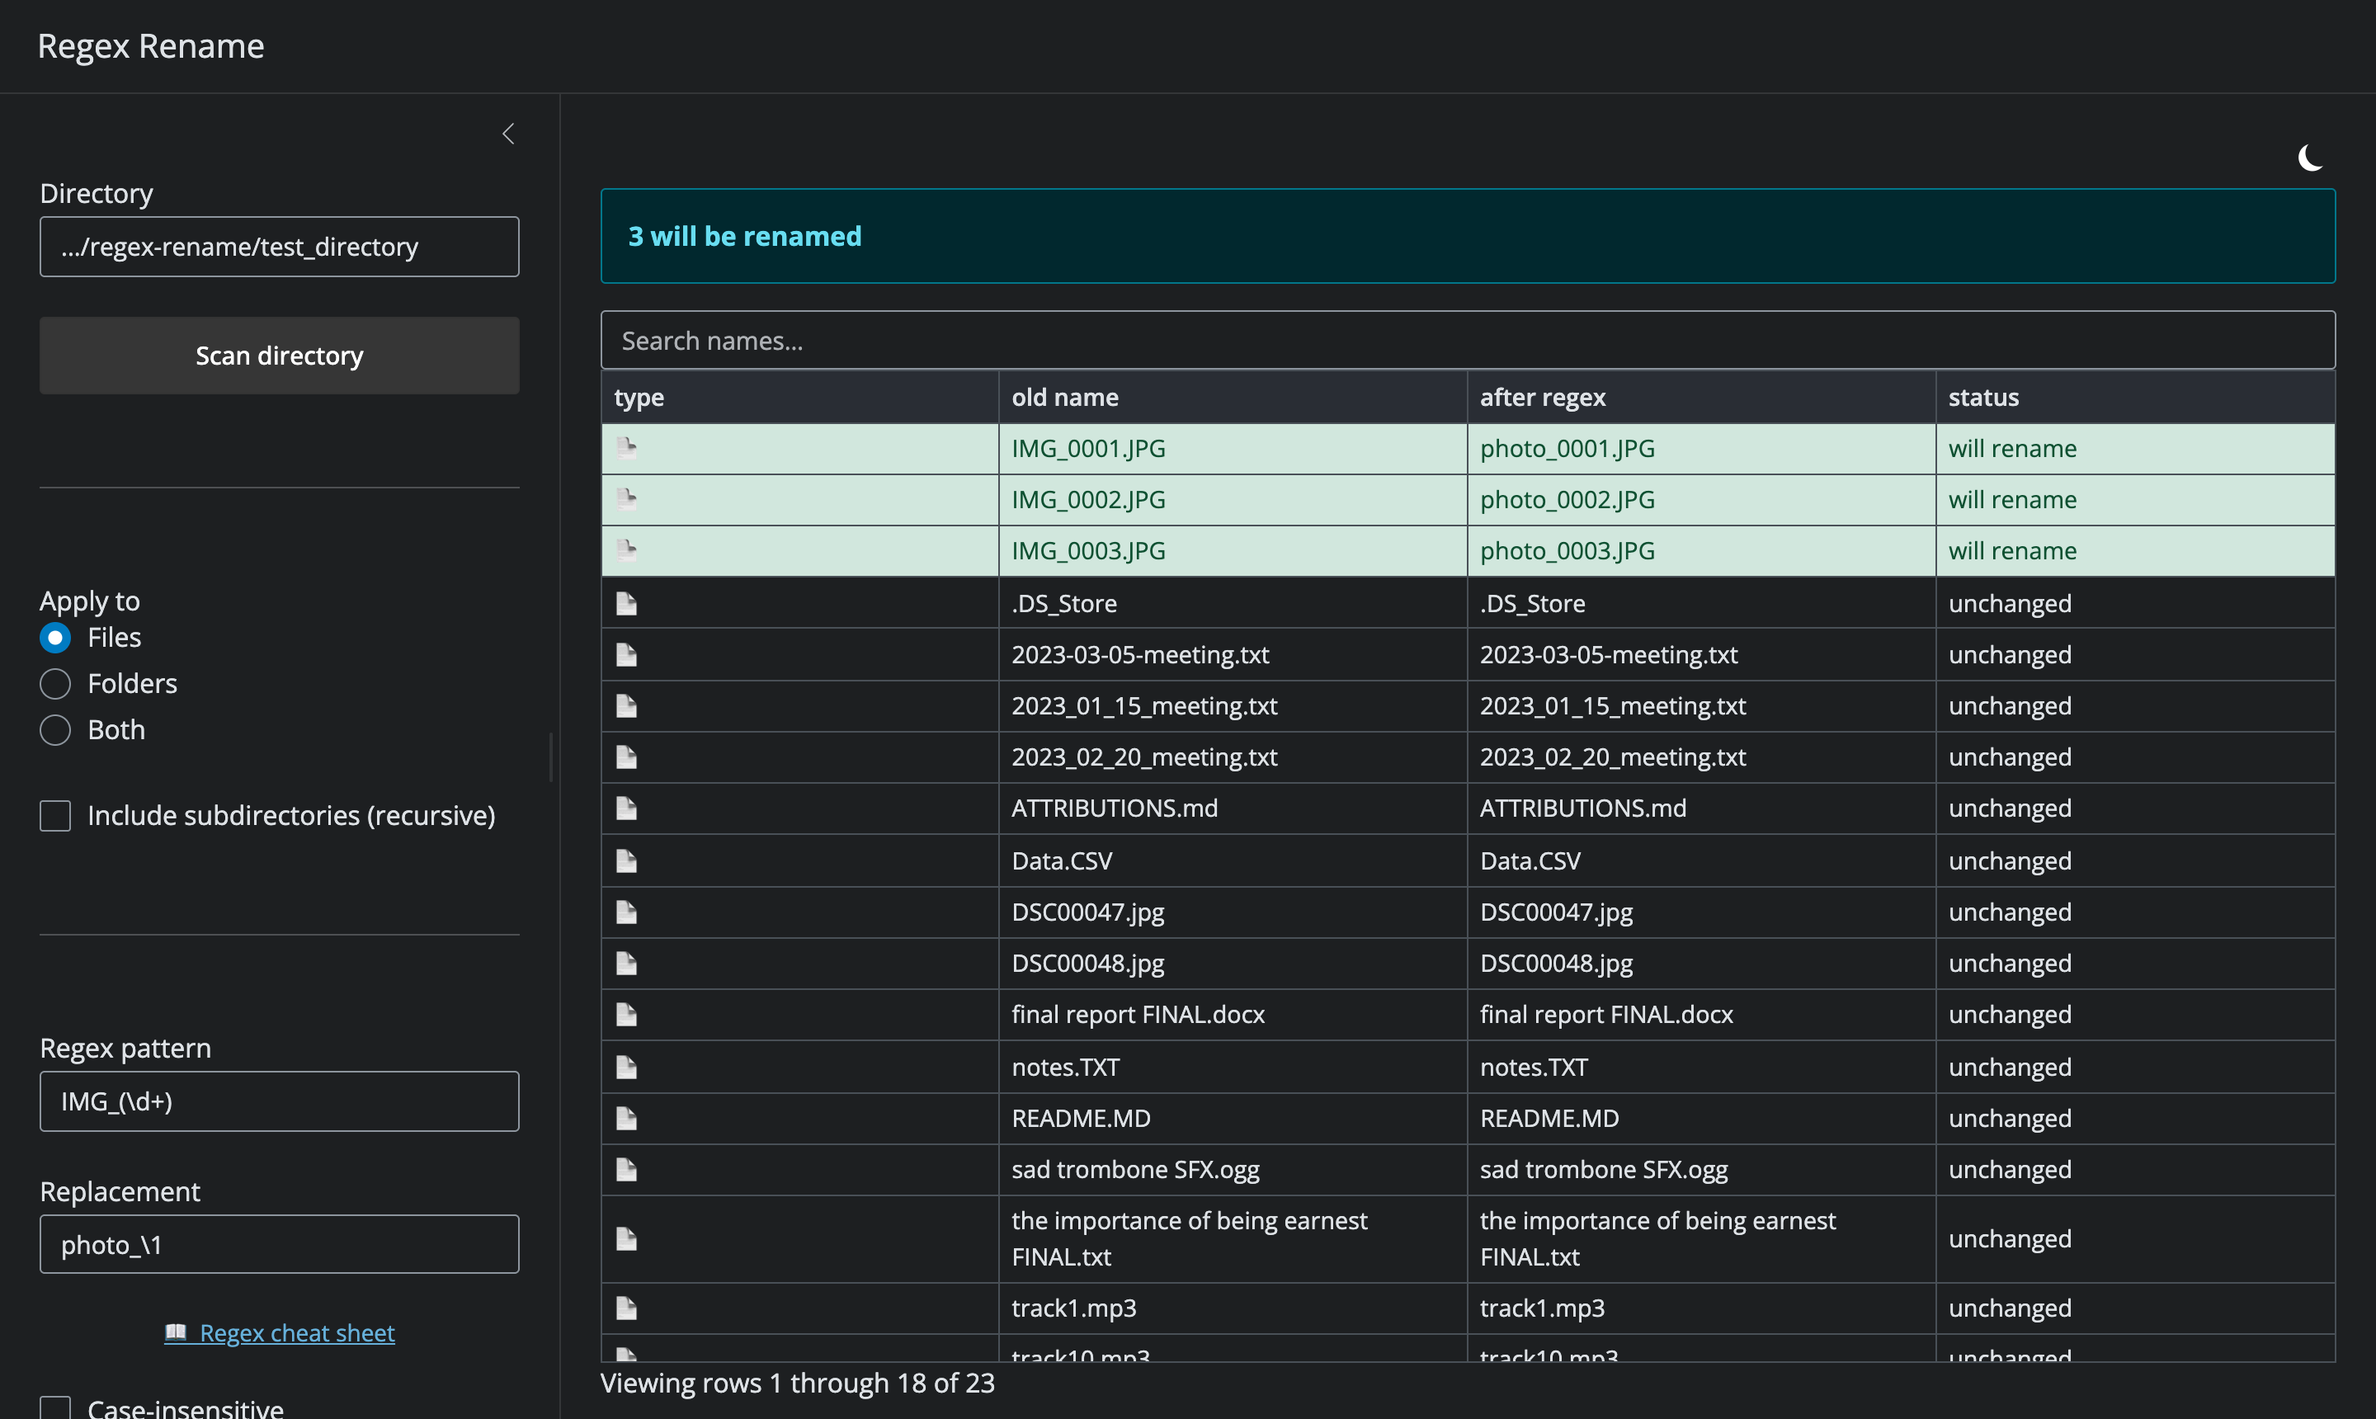
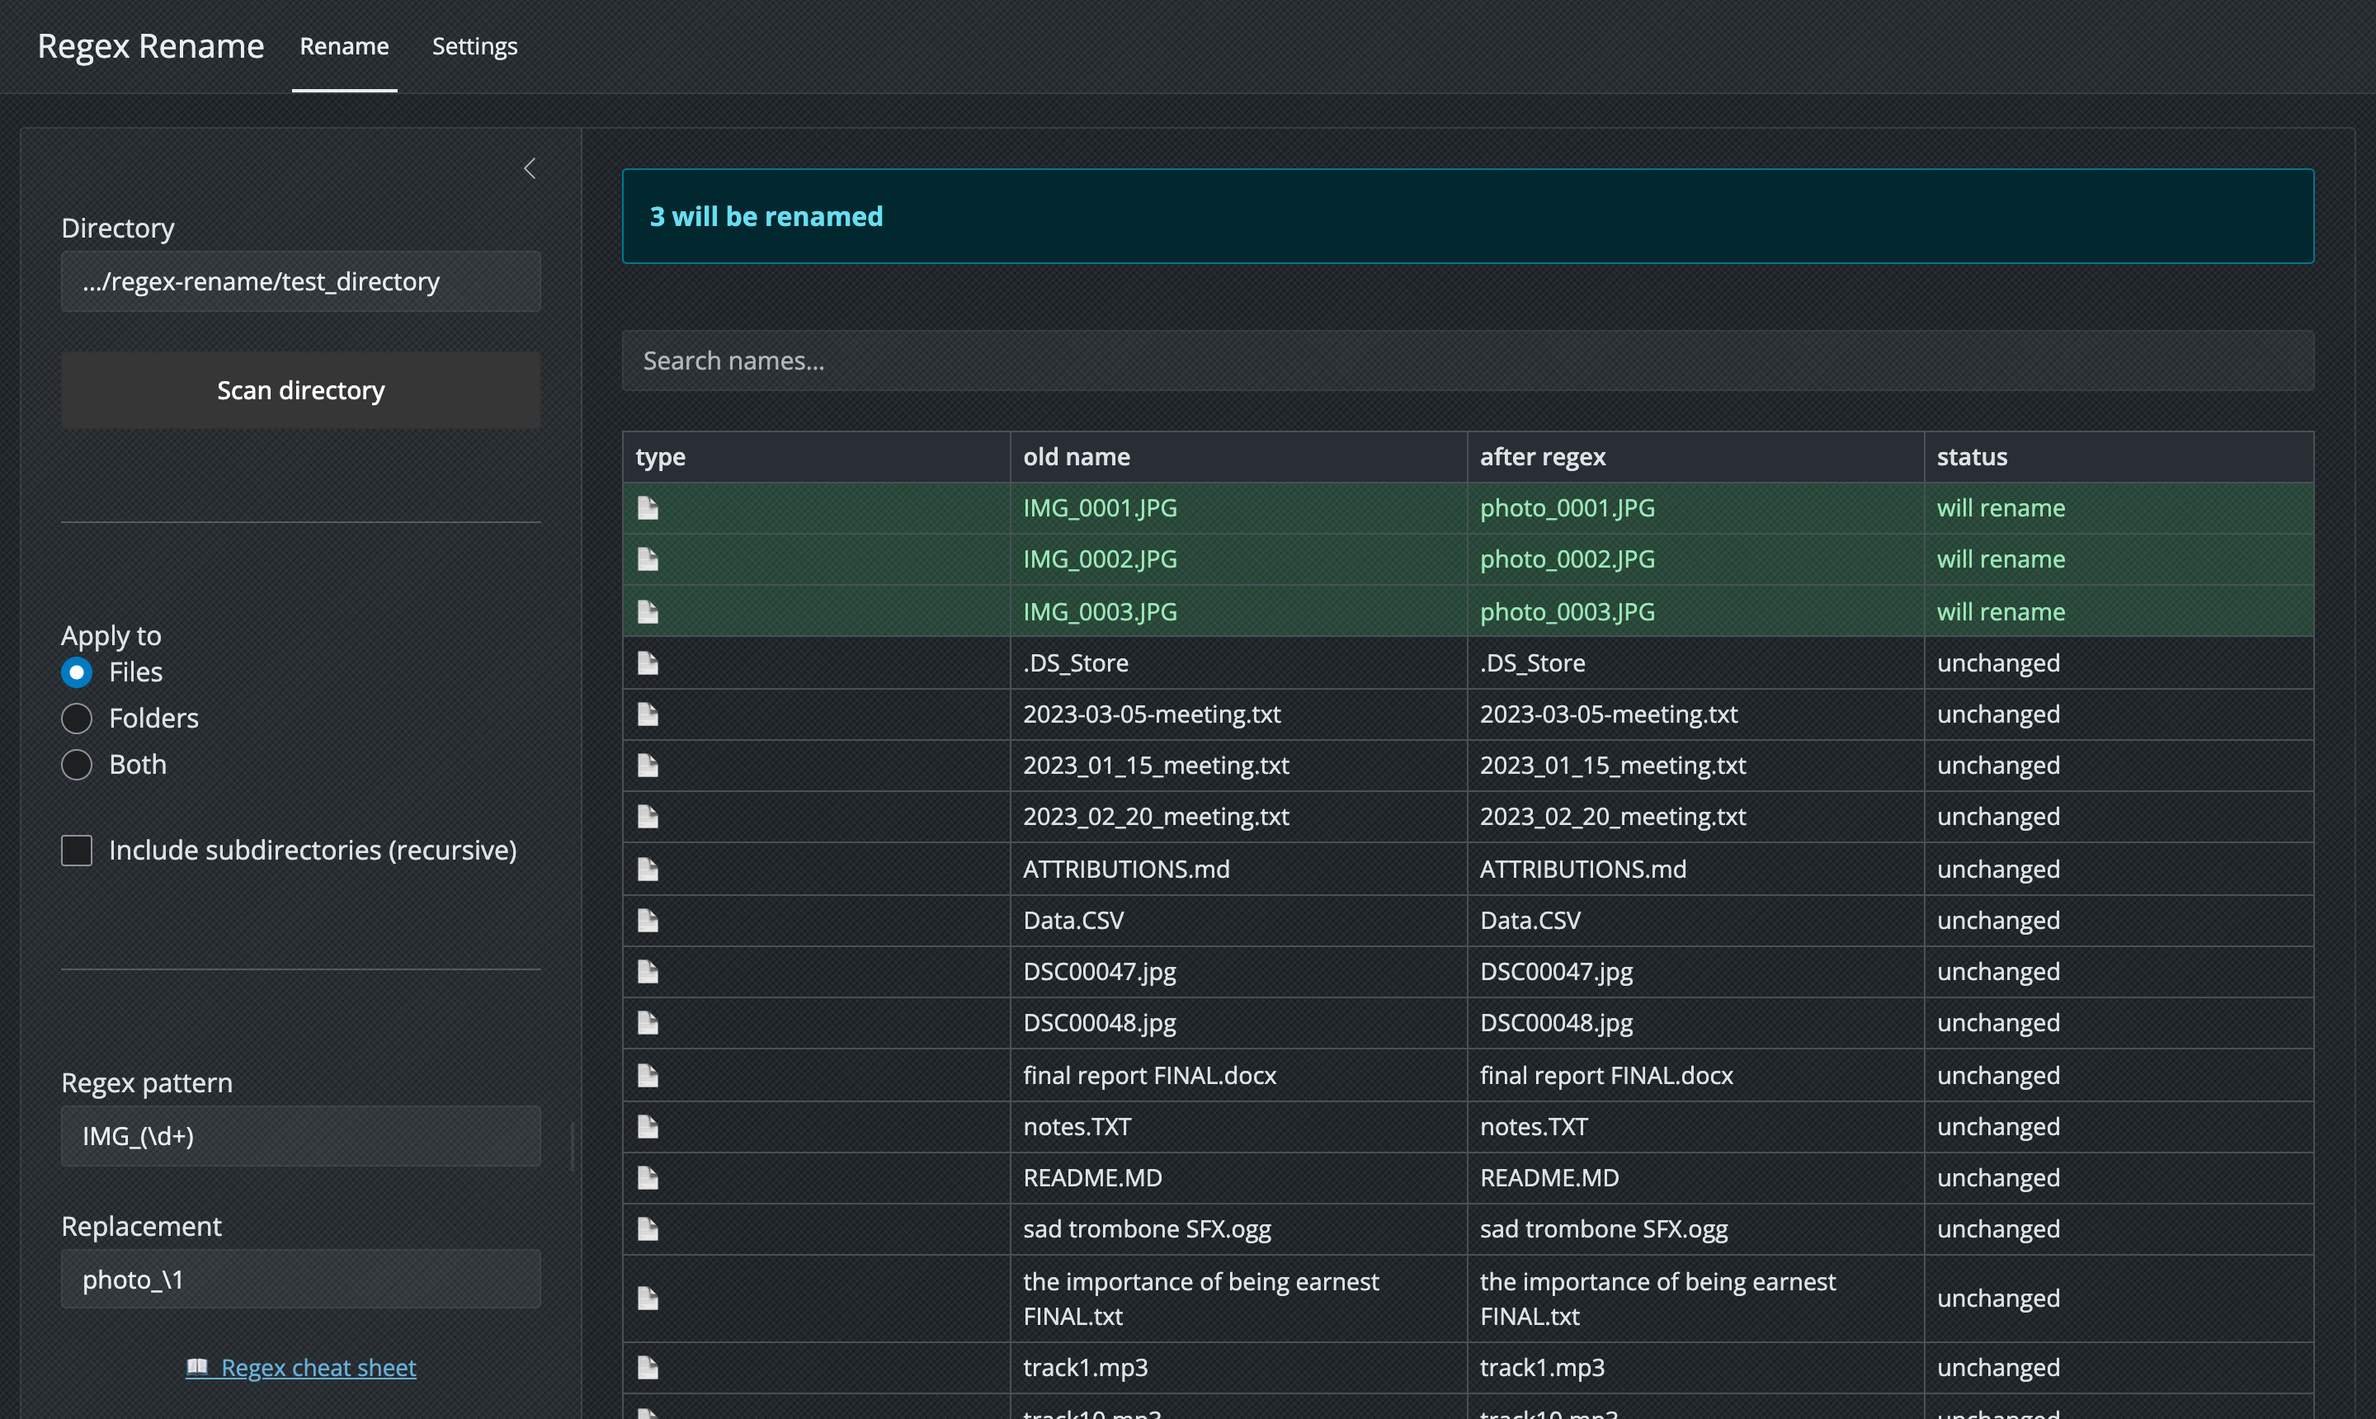
Add a Settings tab with selectable textured skins
Replace the light/dark toggle with a single Skin dropdown in a new Settings
tab. Skins are grouped light vs dark; each carries its own Bootstrap color
mode plus a pure-CSS textured palette (Linen, Natural Canvas, Cyanotype,
Slate Carbon, Graphite Mesh, Gunmetal, Blueprint, Circuit Navy, Denim), with
Classic Light/Dark as the plain defaults.

- Restructure the page from page_sidebar to page_navbar with Rename + Settings
  tabs (all rename controls preserved on the Rename tab).
- The selected skin is pushed to the client via a custom message that sets
  data-bs-theme and swaps an injected <style>; row highlight colors follow the
  skin too.
- Refresh README screenshots to show the tabs and the Linen/Slate Carbon skins.

diff --git a/app.py b/app.py
@@ -44,10 +44,178 @@ EXTRA_HEADERS = {
 }
 
 # ---------------------------------------------------------------------------
+# Skins
+# ---------------------------------------------------------------------------
+# Each skin sets the Bootstrap color mode ("light"/"dark") plus a textured
+# palette. "Classic" skins are the plain Bootstrap themes (no texture). The
+# per-skin "good"/"bad" colors drive the will-rename / problem row highlights.
+# ``tex`` holds CSS background-image layers (gradients / inline-SVG noise).
+SKINS: dict[str, dict] = {
+    # --- Light ---
+    "classic_light": {
+        "label": "Classic Light", "mode": "light", "tex": None,
+        "good_bg": "#d1e7dd", "good_ink": "#0f5132",
+        "bad_bg": "#f8d7da", "bad_ink": "#842029",
+    },
+    "linen": {
+        "label": "Linen", "mode": "light",
+        "bg": "#ece6dc", "ink": "#3d4a44", "panel": "rgba(255,255,255,.4)",
+        "field": "rgba(255,255,255,.6)", "line": "rgba(60,74,68,.22)",
+        "accent": "#4a8f83", "btntext": "#ffffff",
+        "good_bg": "rgba(45,130,90,.20)", "good_ink": "#20624a",
+        "bad_bg": "rgba(190,70,60,.16)", "bad_ink": "#8f2f28",
+        "tex": ("repeating-linear-gradient(0deg,rgba(0,0,0,.035) 0 1px,transparent 1px 4px),"
+                "repeating-linear-gradient(90deg,rgba(0,0,0,.035) 0 1px,transparent 1px 4px)"),
+    },
+    "canvas": {
+        "label": "Natural Canvas", "mode": "light",
+        "bg": "#e7e0d1", "ink": "#40382c", "panel": "rgba(255,255,255,.4)",
+        "field": "rgba(255,253,247,.6)", "line": "rgba(64,56,44,.22)",
+        "accent": "#b5623a", "btntext": "#fff6ee",
+        "good_bg": "rgba(70,120,60,.20)", "good_ink": "#33501f",
+        "bad_bg": "rgba(170,70,50,.18)", "bad_ink": "#7c2f1c",
+        "tex": ("repeating-linear-gradient(0deg,rgba(0,0,0,.04) 0 1px,transparent 1px 4px),"
+                "repeating-linear-gradient(90deg,rgba(0,0,0,.04) 0 1px,transparent 1px 4px)"),
+    },
+    "cyanotype": {
+        "label": "Cyanotype", "mode": "light",
+        "bg": "#dde9ef", "ink": "#143a52", "panel": "rgba(255,255,255,.45)",
+        "field": "rgba(255,255,255,.6)", "line": "rgba(20,90,120,.28)",
+        "accent": "#1c86b0", "btntext": "#ffffff",
+        "good_bg": "rgba(25,120,90,.16)", "good_ink": "#12603f",
+        "bad_bg": "rgba(200,60,60,.14)", "bad_ink": "#8f2f28",
+        "tex": ("repeating-linear-gradient(0deg,rgba(20,120,160,.15) 0 1px,transparent 1px 12px),"
+                "repeating-linear-gradient(90deg,rgba(20,120,160,.15) 0 1px,transparent 1px 12px)"),
+    },
+    # --- Dark ---
+    "classic_dark": {
+        "label": "Classic Dark", "mode": "dark", "tex": None,
+        "good_bg": "#d1e7dd", "good_ink": "#0f5132",
+        "bad_bg": "#f8d7da", "bad_ink": "#842029",
+    },
+    "carbon": {
+        "label": "Slate Carbon", "mode": "dark",
+        "bg": "#22272c", "ink": "#e6edf3", "panel": "rgba(255,255,255,.03)",
+        "field": "rgba(255,255,255,.05)", "line": "rgba(255,255,255,.10)",
+        "accent": "#4dd0e1", "btntext": "#04222a",
+        "good_bg": "rgba(77,208,118,.20)", "good_ink": "#9be8b6",
+        "bad_bg": "rgba(255,107,107,.20)", "bad_ink": "#ffb1b1",
+        "tex": ("repeating-linear-gradient(45deg,rgba(255,255,255,.035) 0 1px,transparent 1px 3px),"
+                "repeating-linear-gradient(-45deg,rgba(0,0,0,.25) 0 1px,transparent 1px 3px)"),
+    },
+    "graphite": {
+        "label": "Graphite Mesh", "mode": "dark",
+        "bg": "#26292e", "ink": "#e9ebef", "panel": "rgba(255,255,255,.04)",
+        "field": "rgba(255,255,255,.05)", "line": "rgba(255,255,255,.11)",
+        "accent": "#f2b544", "btntext": "#2a2010",
+        "good_bg": "rgba(120,210,130,.20)", "good_ink": "#a8e6b4",
+        "bad_bg": "rgba(255,120,110,.20)", "bad_ink": "#ffb8b0",
+        "tex": ("radial-gradient(rgba(255,255,255,.08) 1px,transparent 1.6px) 0 0/13px 13px,"
+                "repeating-linear-gradient(0deg,rgba(0,0,0,.14) 0 1px,transparent 1px 13px)"),
+    },
+    "gunmetal": {
+        "label": "Gunmetal", "mode": "dark",
+        "bg": "#2b2f34", "ink": "#eceff2", "panel": "rgba(255,255,255,.04)",
+        "field": "rgba(255,255,255,.06)", "line": "rgba(255,255,255,.12)",
+        "accent": "#86a5c4", "btntext": "#0e1a26",
+        "good_bg": "rgba(90,200,140,.20)", "good_ink": "#a6e6c2",
+        "bad_bg": "rgba(255,120,120,.20)", "bad_ink": "#ffbdbd",
+        "tex": ("linear-gradient(90deg,rgba(255,255,255,.06),transparent 45%,rgba(255,255,255,.05)),"
+                "repeating-linear-gradient(0deg,rgba(255,255,255,.05) 0 1px,rgba(0,0,0,.06) 1px 2px)"),
+    },
+    "blueprint": {
+        "label": "Blueprint", "mode": "dark",
+        "bg": "#0e3a5f", "ink": "#eaf3fb", "panel": "rgba(255,255,255,.05)",
+        "field": "rgba(255,255,255,.08)", "line": "rgba(255,255,255,.20)",
+        "accent": "#7fd0ff", "btntext": "#0e3a5f",
+        "good_bg": "rgba(120,230,160,.18)", "good_ink": "#bff2d2",
+        "bad_bg": "rgba(255,130,130,.20)", "bad_ink": "#ffc2c2",
+        "tex": ("repeating-linear-gradient(0deg,rgba(255,255,255,.10) 0 1px,transparent 1px 13px),"
+                "repeating-linear-gradient(90deg,rgba(255,255,255,.10) 0 1px,transparent 1px 13px)"),
+    },
+    "circuit": {
+        "label": "Circuit Navy", "mode": "dark",
+        "bg": "#10233a", "ink": "#dbeafc", "panel": "rgba(120,200,255,.05)",
+        "field": "rgba(255,255,255,.06)", "line": "rgba(120,200,255,.20)",
+        "accent": "#6cc6ff", "btntext": "#0b1b2e",
+        "good_bg": "rgba(120,230,160,.18)", "good_ink": "#bff2d2",
+        "bad_bg": "rgba(255,130,130,.20)", "bad_ink": "#ffc2c2",
+        "tex": ("repeating-linear-gradient(0deg,rgba(120,200,255,.13) 0 1px,transparent 1px 13px),"
+                "repeating-linear-gradient(90deg,rgba(120,200,255,.13) 0 1px,transparent 1px 13px)"),
+    },
+    "denim": {
+        "label": "Denim", "mode": "dark",
+        "bg": "#3f5a78", "ink": "#eef3f8", "panel": "rgba(255,255,255,.06)",
+        "field": "rgba(255,255,255,.10)", "line": "rgba(255,255,255,.18)",
+        "accent": "#e8d9b5", "btntext": "#33465e",
+        "good_bg": "rgba(130,225,165,.22)", "good_ink": "#d6f3e0",
+        "bad_bg": "rgba(255,145,140,.22)", "bad_ink": "#ffcccc",
+        "tex": ("repeating-linear-gradient(45deg,rgba(255,255,255,.05) 0 1px,transparent 1px 3px),"
+                "repeating-linear-gradient(-45deg,rgba(0,0,0,.14) 0 1px,transparent 1px 3px)"),
+    },
+}
+
+# Grouped choices for the Settings dropdown (optgroups keep light/dark apart).
+SKIN_CHOICES = {
+    "Light": {k: v["label"] for k, v in SKINS.items() if v["mode"] == "light"},
+    "Dark": {k: v["label"] for k, v in SKINS.items() if v["mode"] == "dark"},
+}
+DEFAULT_SKIN = "classic_light"
+
+
+def build_skin_css(skin: dict) -> str:
+    """CSS that paints the app's chrome for a textured skin.
+
+    Classic skins return "" and rely on Bootstrap's own light/dark theme; the
+    data grid and form controls follow ``data-bs-theme`` (set client-side).
+    """
+    if not skin.get("tex"):
+        return ""
+    return f"""
+    body {{ background-color:{skin['bg']}; background-image:{skin['tex']};
+            background-attachment:fixed; color:{skin['ink']}; }}
+    .navbar {{ background-color:{skin['panel']} !important;
+               border-bottom:1px solid {skin['line']}; }}
+    .navbar .navbar-brand, .navbar .nav-link, .navbar .nav-link.active {{
+        color:{skin['ink']} !important; }}
+    .bslib-sidebar-layout>.sidebar {{ background-color:{skin['panel']};
+        border-color:{skin['line']}; }}
+    .bslib-sidebar-layout>.main {{ background-color:transparent; }}
+    .card, .bslib-card, .modal-content, .popover, .popover-body {{
+        background-color:{skin['bg']}; color:{skin['ink']}; }}
+    .form-control, .form-select {{ background-color:{skin['field']};
+        color:{skin['ink']}; border-color:{skin['line']}; }}
+    .btn-secondary {{ background-color:{skin['accent']};
+        border-color:{skin['accent']}; color:{skin['btntext']}; }}
+    .btn-outline-secondary {{ color:{skin['ink']}; border-color:{skin['line']}; }}
+    .nav-tabs .nav-link.active, .nav-underline .nav-link.active {{
+        color:{skin['ink']}; }}
+    """
+
+
+# JS: apply a skin sent from the server (set the Bootstrap color mode and swap
+# a <style> element). Polls until Shiny is ready so registration can't race.
+_SKIN_JS = """
+(function reg(){
+  if(!window.Shiny || !Shiny.addCustomMessageHandler){ return setTimeout(reg,50); }
+  Shiny.addCustomMessageHandler('apply-skin', function(m){
+    document.documentElement.setAttribute('data-bs-theme', m.mode);
+    var el = document.getElementById('app-skin');
+    if(!el){ el = document.createElement('style'); el.id = 'app-skin';
+             document.head.appendChild(el); }
+    el.textContent = m.css;
+  });
+})();
+"""
+
+# ---------------------------------------------------------------------------
 # UI
 # ---------------------------------------------------------------------------
-app_ui = ui.page_sidebar(
-    ui.sidebar(
+app_ui = ui.page_navbar(
+    ui.nav_panel(
+        "Rename",
+        ui.layout_sidebar(
+            ui.sidebar(
         ui.input_text(
             "directory",
             "Directory",
@@ -99,19 +267,34 @@ app_ui = ui.page_sidebar(
         ui.input_action_button("apply", "Confirm & apply changes", class_="btn-danger"),
         width=340,
     ),
-    ui.div(
-        ui.input_dark_mode(id="color_mode"),
-        style="display:flex;justify-content:flex-end;margin-bottom:.25rem;",
+            ui.output_ui("status"),
+            ui.input_text(
+                "search",
+                None,
+                placeholder="Search names…",
+                width="100%",
+            ),
+            ui.output_data_frame("preview"),
+        ),
     ),
-    ui.output_ui("status"),
-    ui.input_text(
-        "search",
-        None,
-        placeholder="Search names…",
-        width="100%",
+    ui.nav_panel(
+        "Settings",
+        ui.h4("Appearance", class_="mt-2"),
+        ui.input_select(
+            "skin",
+            "Skin",
+            choices=SKIN_CHOICES,
+            selected=DEFAULT_SKIN,
+            width="320px",
+        ),
+        ui.help_text(
+            "Light and dark skins are grouped separately. Textured skins are "
+            "pure CSS — no image files."
+        ),
     ),
-    ui.output_data_frame("preview"),
     title="Regex Rename",
+    id="nav",
+    header=ui.tags.script(ui.HTML(_SKIN_JS)),
 )
 
 
@@ -135,12 +318,6 @@ def fmt_time(ts: float) -> str:
     except (OverflowError, OSError, ValueError):
         return "—"
 
-
-# Whole-row background/text colors by outcome. "will rename" rows go green,
-# any problem/error status goes red; "unchanged" rows are left unstyled so the
-# colored rows stand out.
-ROW_WILL_RENAME = {"background-color": "#d1e7dd", "color": "#0f5132"}  # green
-ROW_PROBLEM = {"background-color": "#f8d7da", "color": "#842029"}  # red
 
 
 # Quick-reference regex content shown in the cheat-sheet modal. Each section is
@@ -567,15 +744,19 @@ def server(input, output, session):
             records.append(rec)
         df = pd.DataFrame(records, columns=display_cols)
 
-        # Whole-row coloring by status: green when it will rename, red on any
-        # problem/error. Omitting "cols" applies the style across all columns.
+        # Whole-row coloring by status, using the current skin's palette: green
+        # when it will rename, red on any problem/error. Omitting "cols" applies
+        # the style across all columns.
+        skin = SKINS.get(input.skin(), SKINS[DEFAULT_SKIN])
+        good_style = {"background-color": skin["good_bg"], "color": skin["good_ink"]}
+        bad_style = {"background-color": skin["bad_bg"], "color": skin["bad_ink"]}
         styles = []
         if has_pattern:
             for i, r in enumerate(rows):
                 st = r["status"]
                 if st in ("", "unchanged"):
                     continue
-                row_style = ROW_WILL_RENAME if st == "will rename" else ROW_PROBLEM
+                row_style = good_style if st == "will rename" else bad_style
                 styles.append({"rows": [i], "style": dict(row_style)})
 
         return render.DataGrid(
@@ -589,6 +770,16 @@ def server(input, output, session):
     @reactive.event(input.cheatsheet)
     def _show_cheatsheet():
         ui.modal_show(cheatsheet_modal())
+
+    @reactive.effect
+    async def _apply_skin():
+        """Push the selected skin to the client: set the Bootstrap color mode
+        and swap the injected <style>. Runs on connect and on every change."""
+        skin = SKINS.get(input.skin(), SKINS[DEFAULT_SKIN])
+        await session.send_custom_message(
+            "apply-skin",
+            {"mode": skin["mode"], "css": build_skin_css(skin)},
+        )
 
     @reactive.effect
     @reactive.event(input.apply)

diff --git a/README.md b/README.md
@@ -28,7 +28,9 @@ checks before anything is written to disk.
 - **Search bar** to filter the grid by current or proposed name.
 - A built-in **regex cheat sheet** (button by the pattern field) with common
   tokens and rename-focused examples.
-- A **light/dark mode toggle** for comfortable viewing.
+- **Themeable skins** in a Settings tab — plain Classic Light/Dark plus
+  textured skins (Linen, Natural Canvas, Cyanotype, Slate Carbon, Graphite
+  Mesh, Gunmetal, Blueprint, Circuit Navy, Denim), all pure CSS.
 - Colored **status** per row (green = will rename, grey = unchanged, red =
   problem) so you can see at a glance what will happen.
 - Optional **case-insensitive** matching and **name-only** matching that keeps
